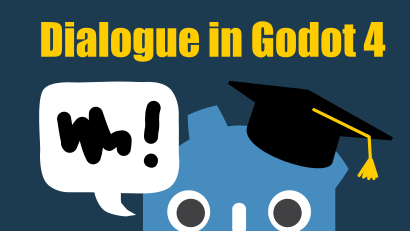
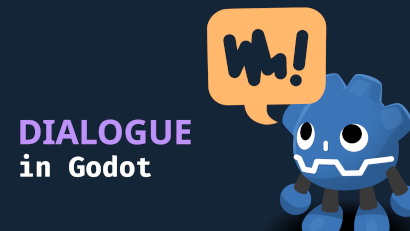
Update README with new video

diff --git a/README.md b/README.md
@@ -38,7 +38,7 @@ You can install it via the Asset Store or [downloading a copy](https://github.co
 
 ## Video Guides
 
-[![Dialogue in Godot 4](docs/media/dialogue-in-godot.png)](https://youtu.be/UhPFk8FSbd8)
+[![Dialogue in Godot 4](docs/media/dialogue-in-godot.png)](https://youtu.be/G48CuExqNGM)
 [![Making cut-scenes](docs/media/cutscenes.png)](https://youtu.be/G_TN8jz4v9o)
 [![Making dialogue balloons](docs/media/video-examples.png)](https://youtu.be/Rd4bZEX2RCg)
 
